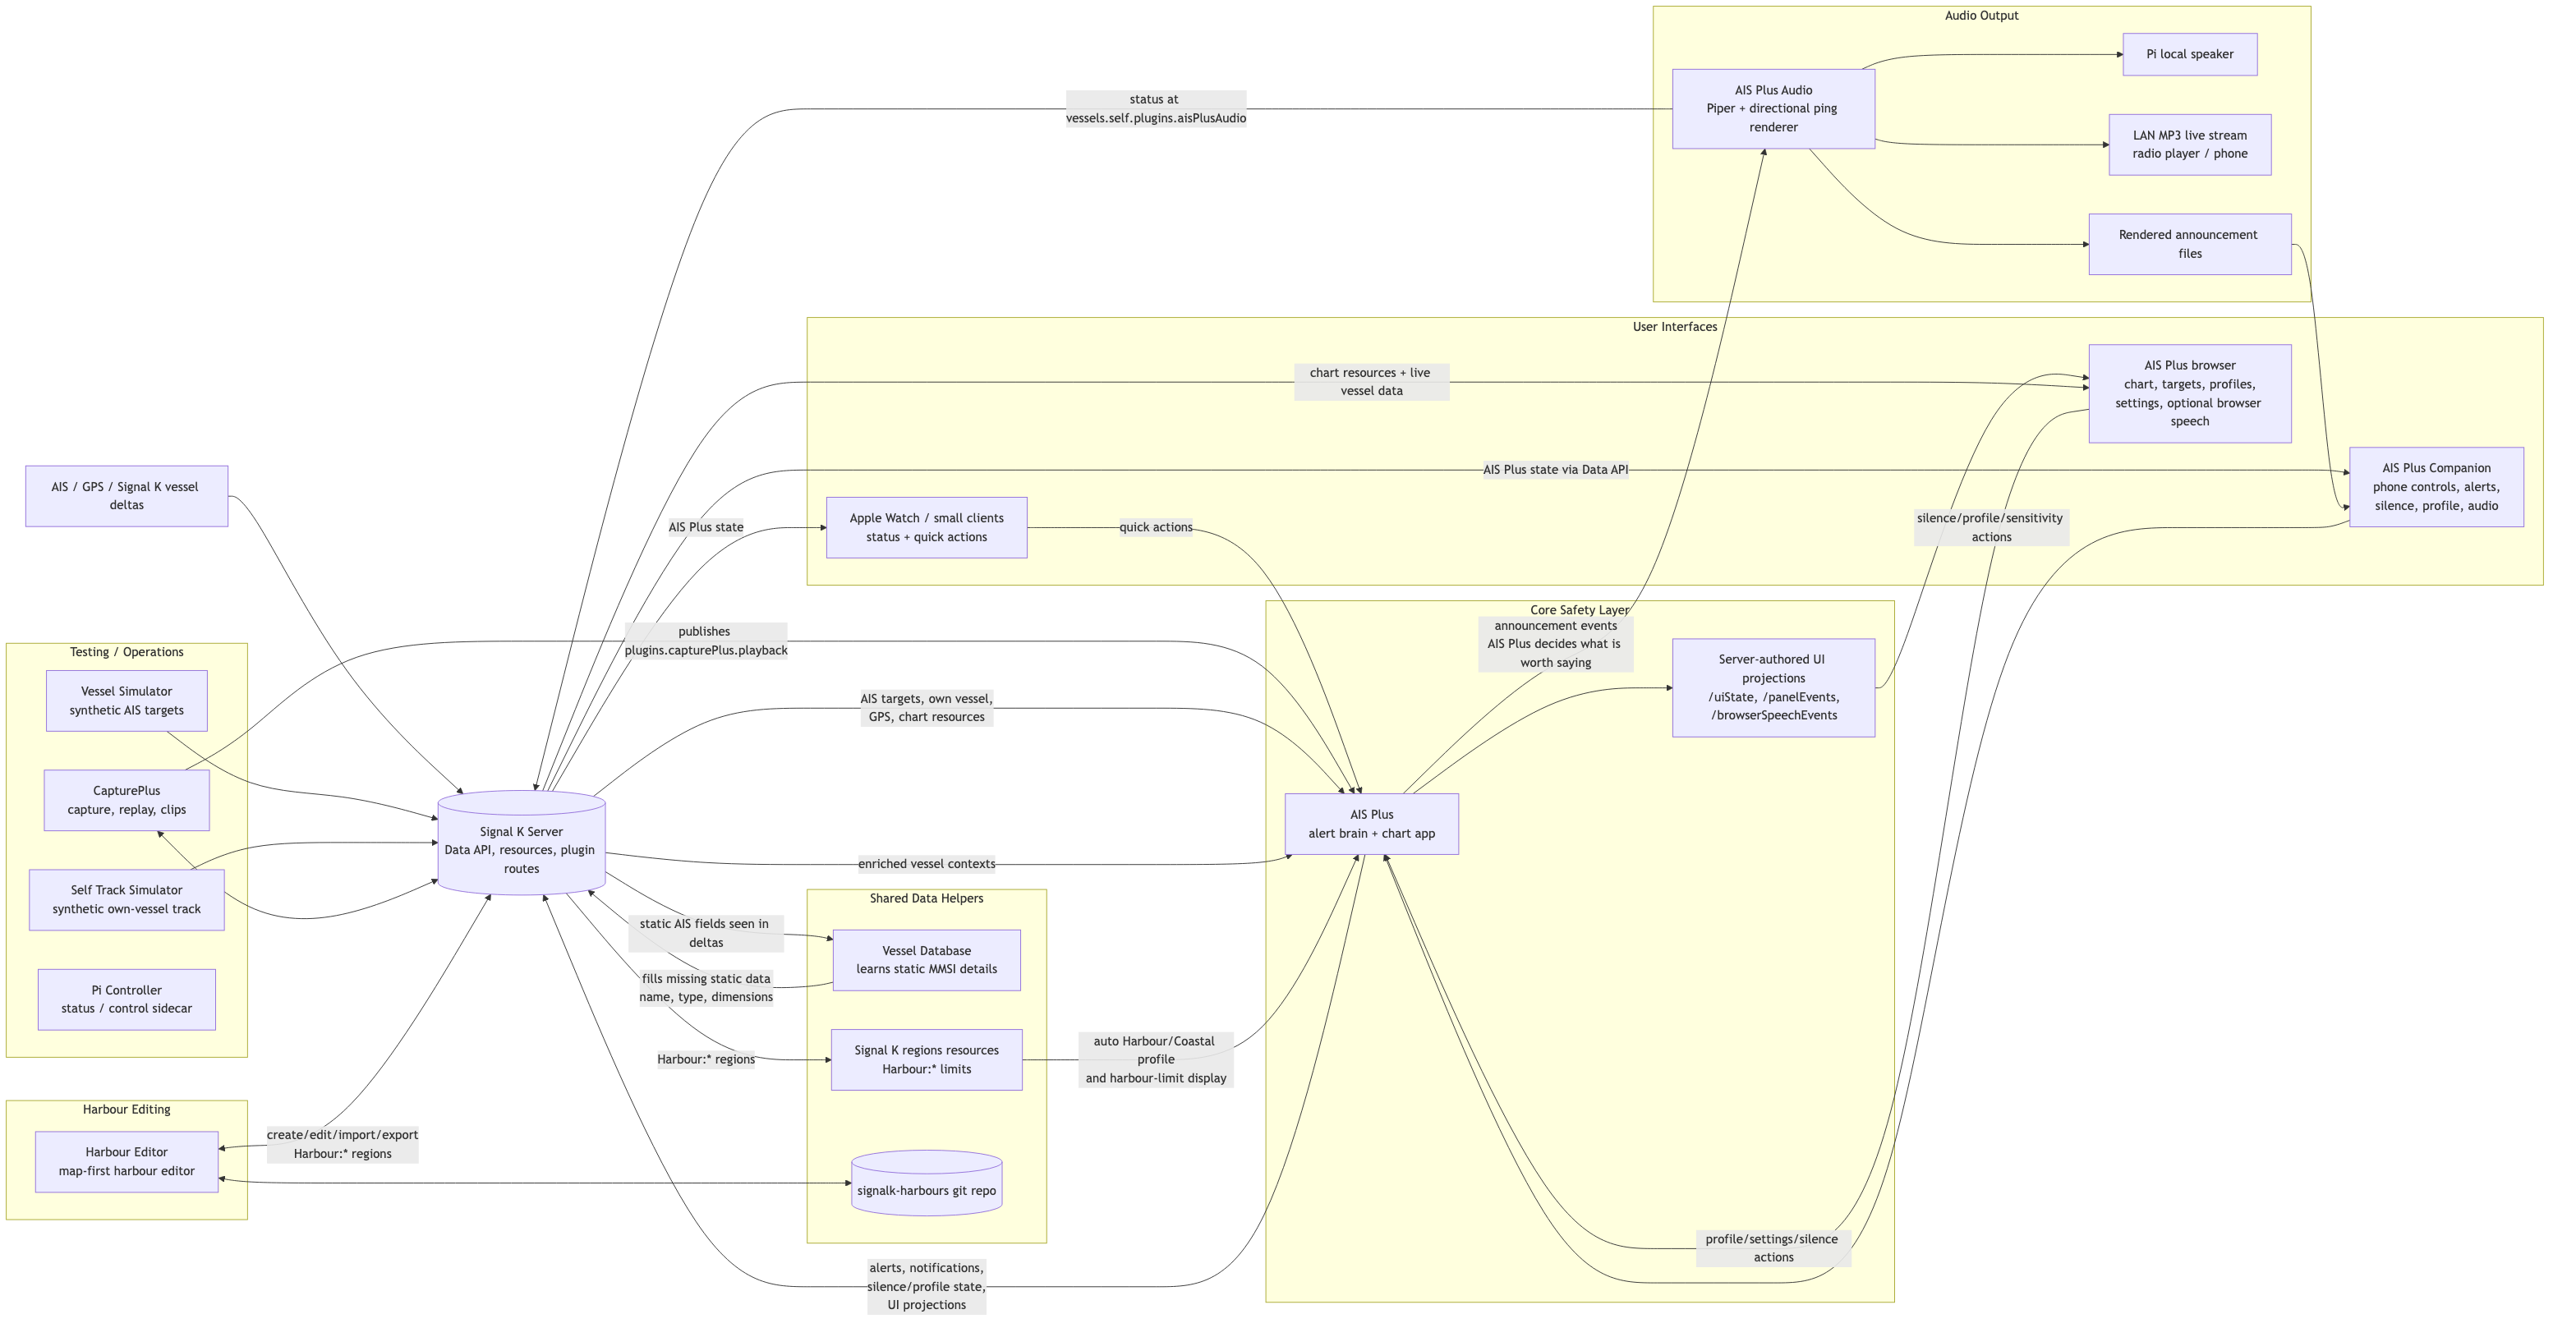
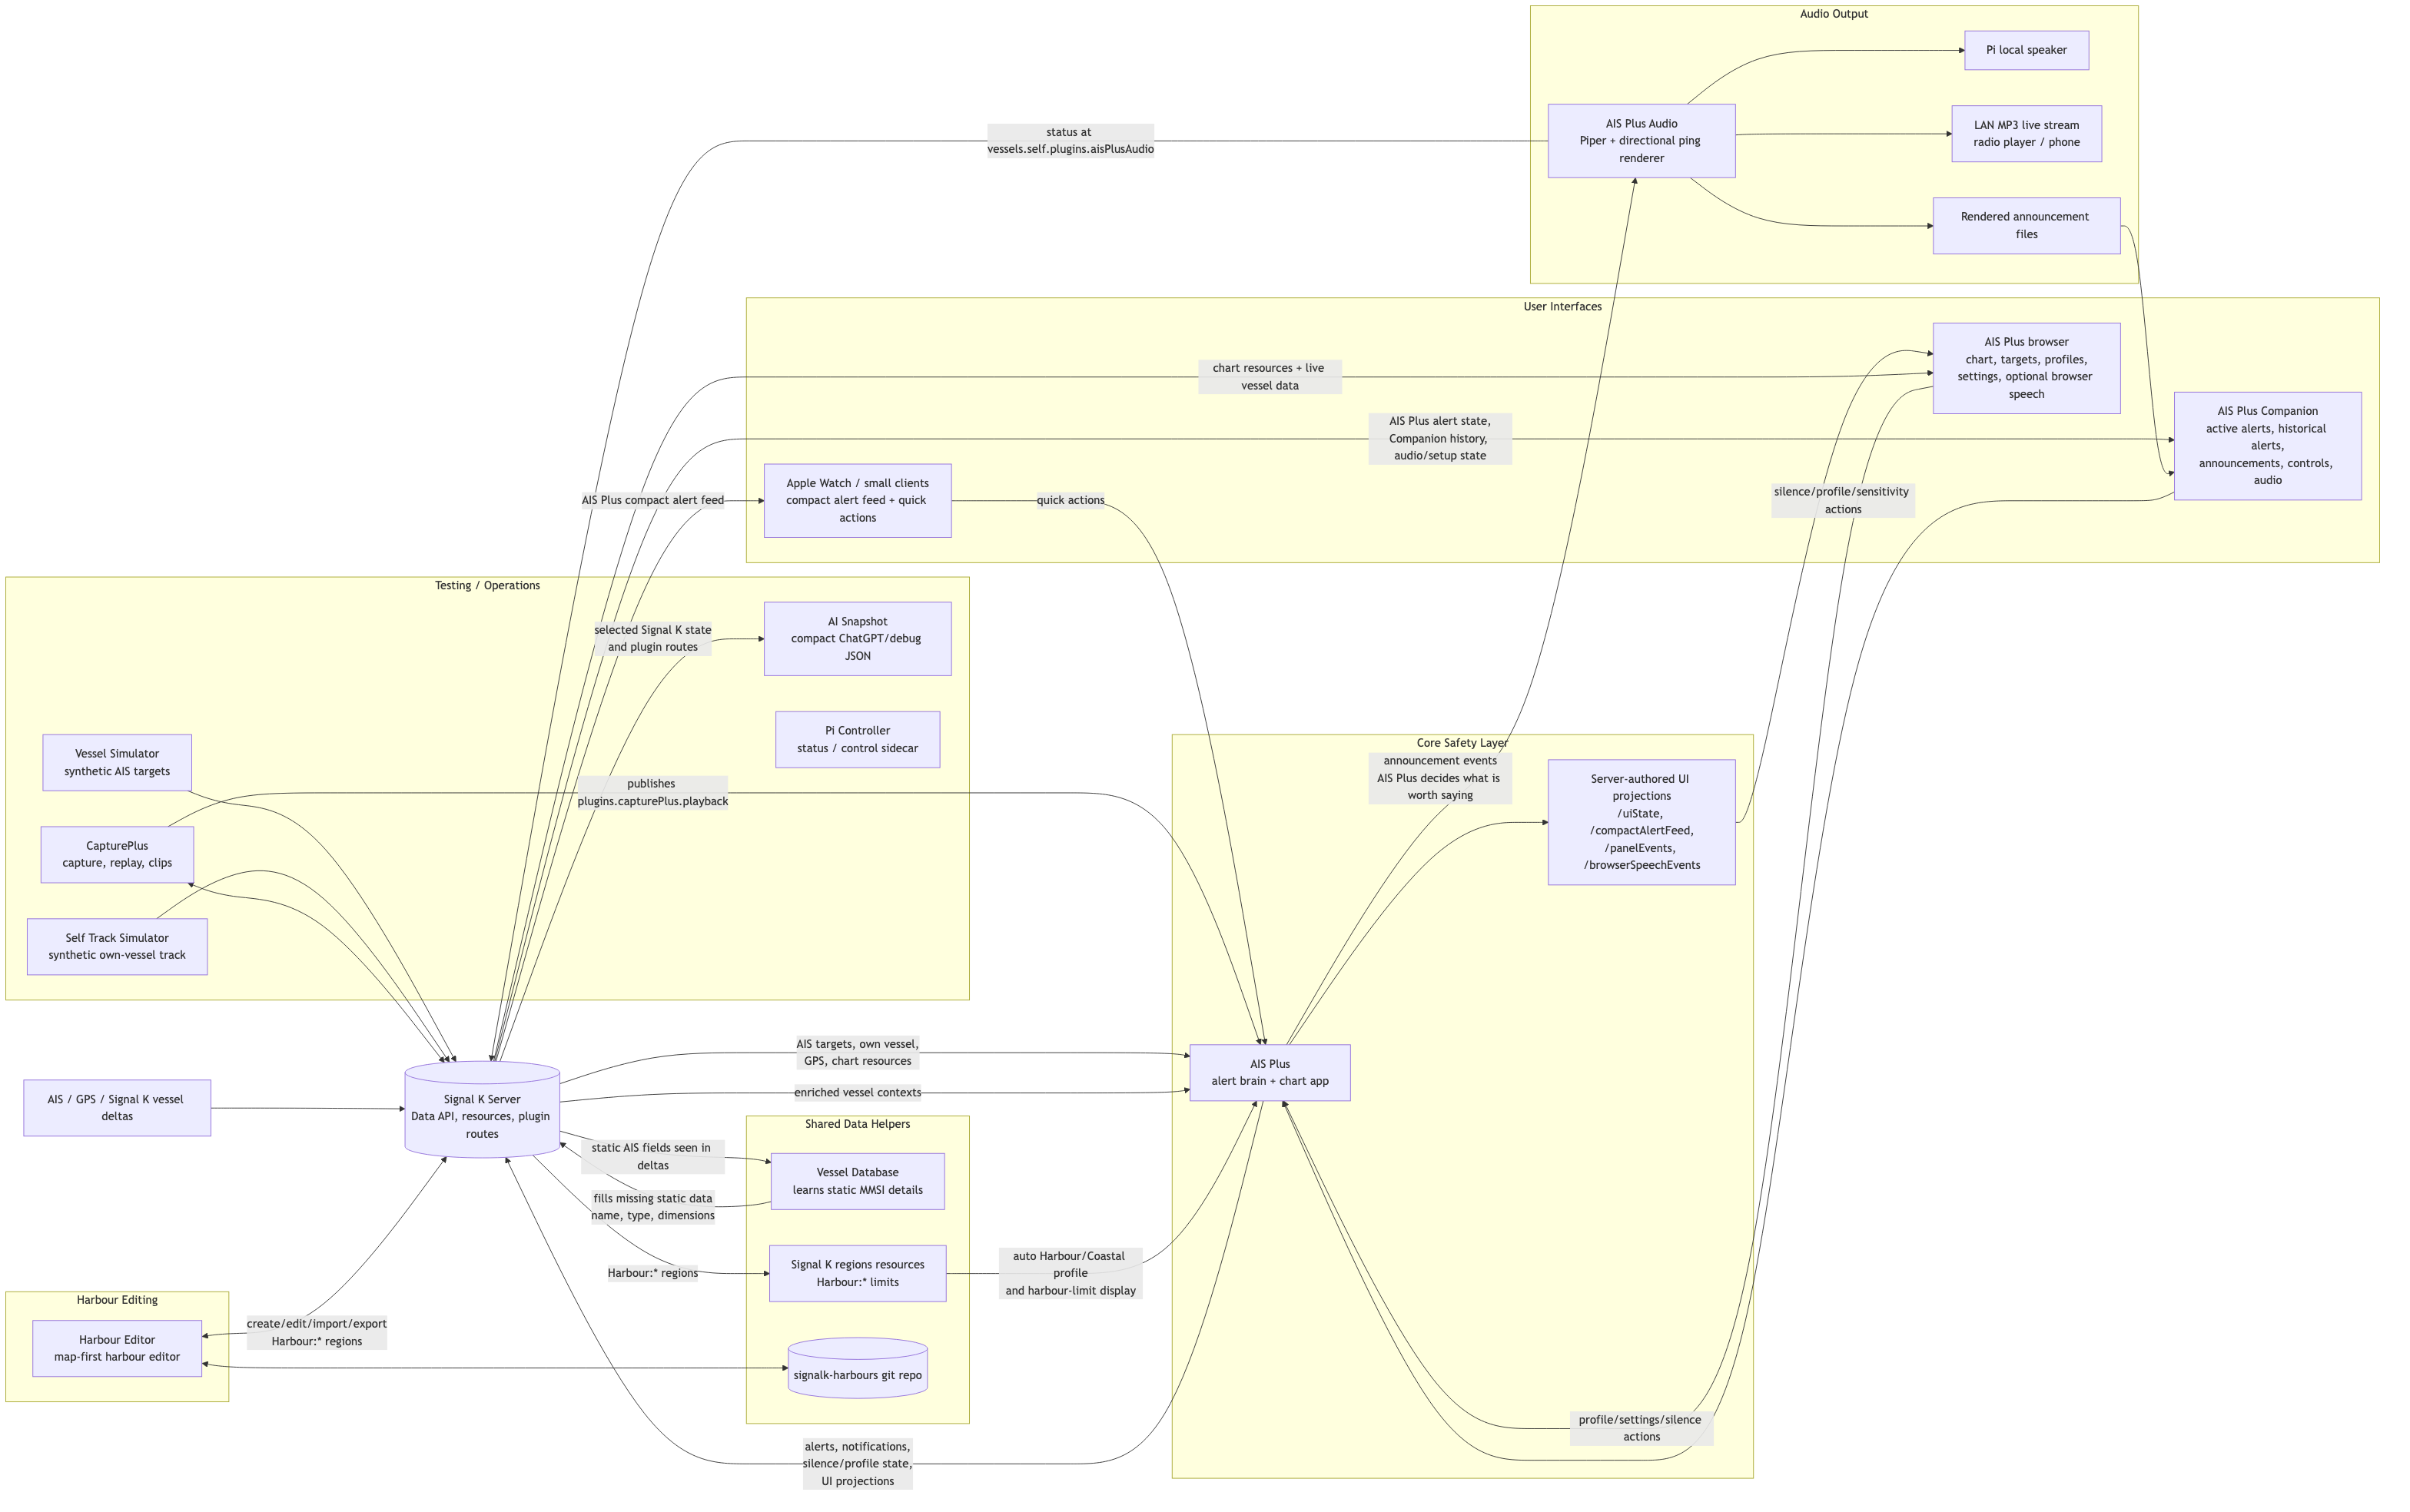
Update AIS suite bootstrap defaults

diff --git a/README.md b/README.md
@@ -12,6 +12,7 @@ The bootstrap script installs Raspberry Pi OS packages used by the AIS Plus suit
 - `signalk-ais-plus-audio`
 - `signalk-ais-plus-companion`
 - `signalk-ais-plus-apple-watch`
+- `signalk-ai-snapshot`
 - `signalk-capture-plus`
 - `signalk-vessel-database`
 - `signalk-harbour-editor`
@@ -23,7 +24,25 @@ The script installs fixed, known-good tags by default. You can override any vers
 
 ## Suite Release Tags
 
-The default tags in this repository are kept as a coordinated AIS Plus suite. The v7/v1/v2/v3 generation below is intended to operate together and includes hull-aware CPA with fail-safe unknown-antenna handling, AIS Plus Audio announcements, Companion/Apple Watch displays, CapturePlus replay support, vessel metadata, harbour editing, simulators, and Pi control.
+The default tags in this repository are kept as a coordinated AIS Plus suite. The current defaults install:
+
+| Component | Default tag |
+| --- | --- |
+| AIS Plus | `v7.72.11` |
+| AIS Plus Audio | `v1.2.0` |
+| AIS Plus Companion | `v2.0.5` |
+| AIS Plus Apple Watch | `v1.0.1` |
+| AI Snapshot | `v0.1.8` |
+| CapturePlus | `v1.0.2` |
+| Vessel Database | `v1.0.0` |
+| Harbour Editor | `v3.0.1` |
+| Vessel Simulator | `v2.4.0` |
+| Self Track Simulator | `v1.0.0` |
+| Pi Controller | `v1.1.0` |
+
+This set is intended to operate together and includes hull-aware CPA with fail-safe unknown-antenna handling, COLREG prompt wording, AIS Plus Audio announcements, Companion active/historical alert panels, Apple Watch compact alert feed support, AI Snapshot compact debug output, CapturePlus replay support, vessel metadata, harbour editing, simulators, and Pi control.
+
+AIS Plus is the source of truth for vessel alert state. Companion shows current vessel risks in Active Alerts, moves cleared vessel alerts into Historical Alerts, and keeps recent spoken/system announcements separate. Apple Watch and other very small clients should read the compact AIS Plus feed rather than trying to recreate the full alert model.
 
 ## Suite Diagrams
 
@@ -116,7 +135,8 @@ Useful options:
 Useful environment overrides:
 
 ```bash
-AIS_PLUS_VERSION=v7.0.0 ./scripts/install-ais-suite.sh
+AIS_PLUS_VERSION=v7.72.11 ./scripts/install-ais-suite.sh
+AI_SNAPSHOT_VERSION=v0.1.8 ./scripts/install-ais-suite.sh
 REPO_OWNER=mcdonaldajr ./scripts/install-ais-suite.sh
 SIGNALK_HOME=/home/pi/.signalk ./scripts/install-ais-suite.sh
 ```
@@ -158,7 +178,13 @@ Use `./update-ais-suite-latest.sh --main` only when you deliberately want the ne
    https://<your-pi-hostname>:3443/signalk-ais-plus-companion/
    ```
 
-6. Add charts separately.
+6. Open AI Snapshot when you need compact state for debugging or ChatGPT:
+
+   ```text
+   https://<your-pi-hostname>:3443/signalk-ai-snapshot/
+   ```
+
+7. Add charts separately.
 
 ## Notes
 
@@ -167,3 +193,4 @@ Use `./update-ais-suite-latest.sh --main` only when you deliberately want the ne
 - Piper is installed automatically on 64-bit Raspberry Pi OS. Other architectures are skipped with a warning.
 - The default Piper voice is `en_GB-alan-medium`, installed into `~/piper-voices`.
 - CapturePlus log directories are created at `~/CapturePlusLogs/logs` and `~/CapturePlusLogs/clips`.
+- AI Snapshot omits the full AIS Plus harbour region list by default. Enable its harbour-list option only when debugging harbour geometry.

diff --git a/PUBLISHING.md b/PUBLISHING.md
@@ -1,12 +1,18 @@
 # Publishing This Repository
 
-The intended public repository is:
+The public repository is:
 
 ```text
 https://github.com/mcdonaldajr/signalk-boat-bootstrap
 ```
 
-When GitHub CLI authentication is working, publish it with:
+For normal updates, commit locally and push:
+
+```bash
+git push origin main
+```
+
+If the repository ever needs to be recreated, GitHub CLI can publish it with:
 
 ```bash
 gh repo create mcdonaldajr/signalk-boat-bootstrap \
@@ -22,9 +28,8 @@ If `gh auth status` reports an invalid token, refresh authentication first:
 gh auth login -h github.com
 ```
 
-After publishing, the curl install URL in `README.md` will work:
+The curl install URL in `README.md` uses:
 
 ```bash
 curl -fsSL https://raw.githubusercontent.com/mcdonaldajr/signalk-boat-bootstrap/main/scripts/install-ais-suite.sh -o install-ais-suite.sh
 ```
-